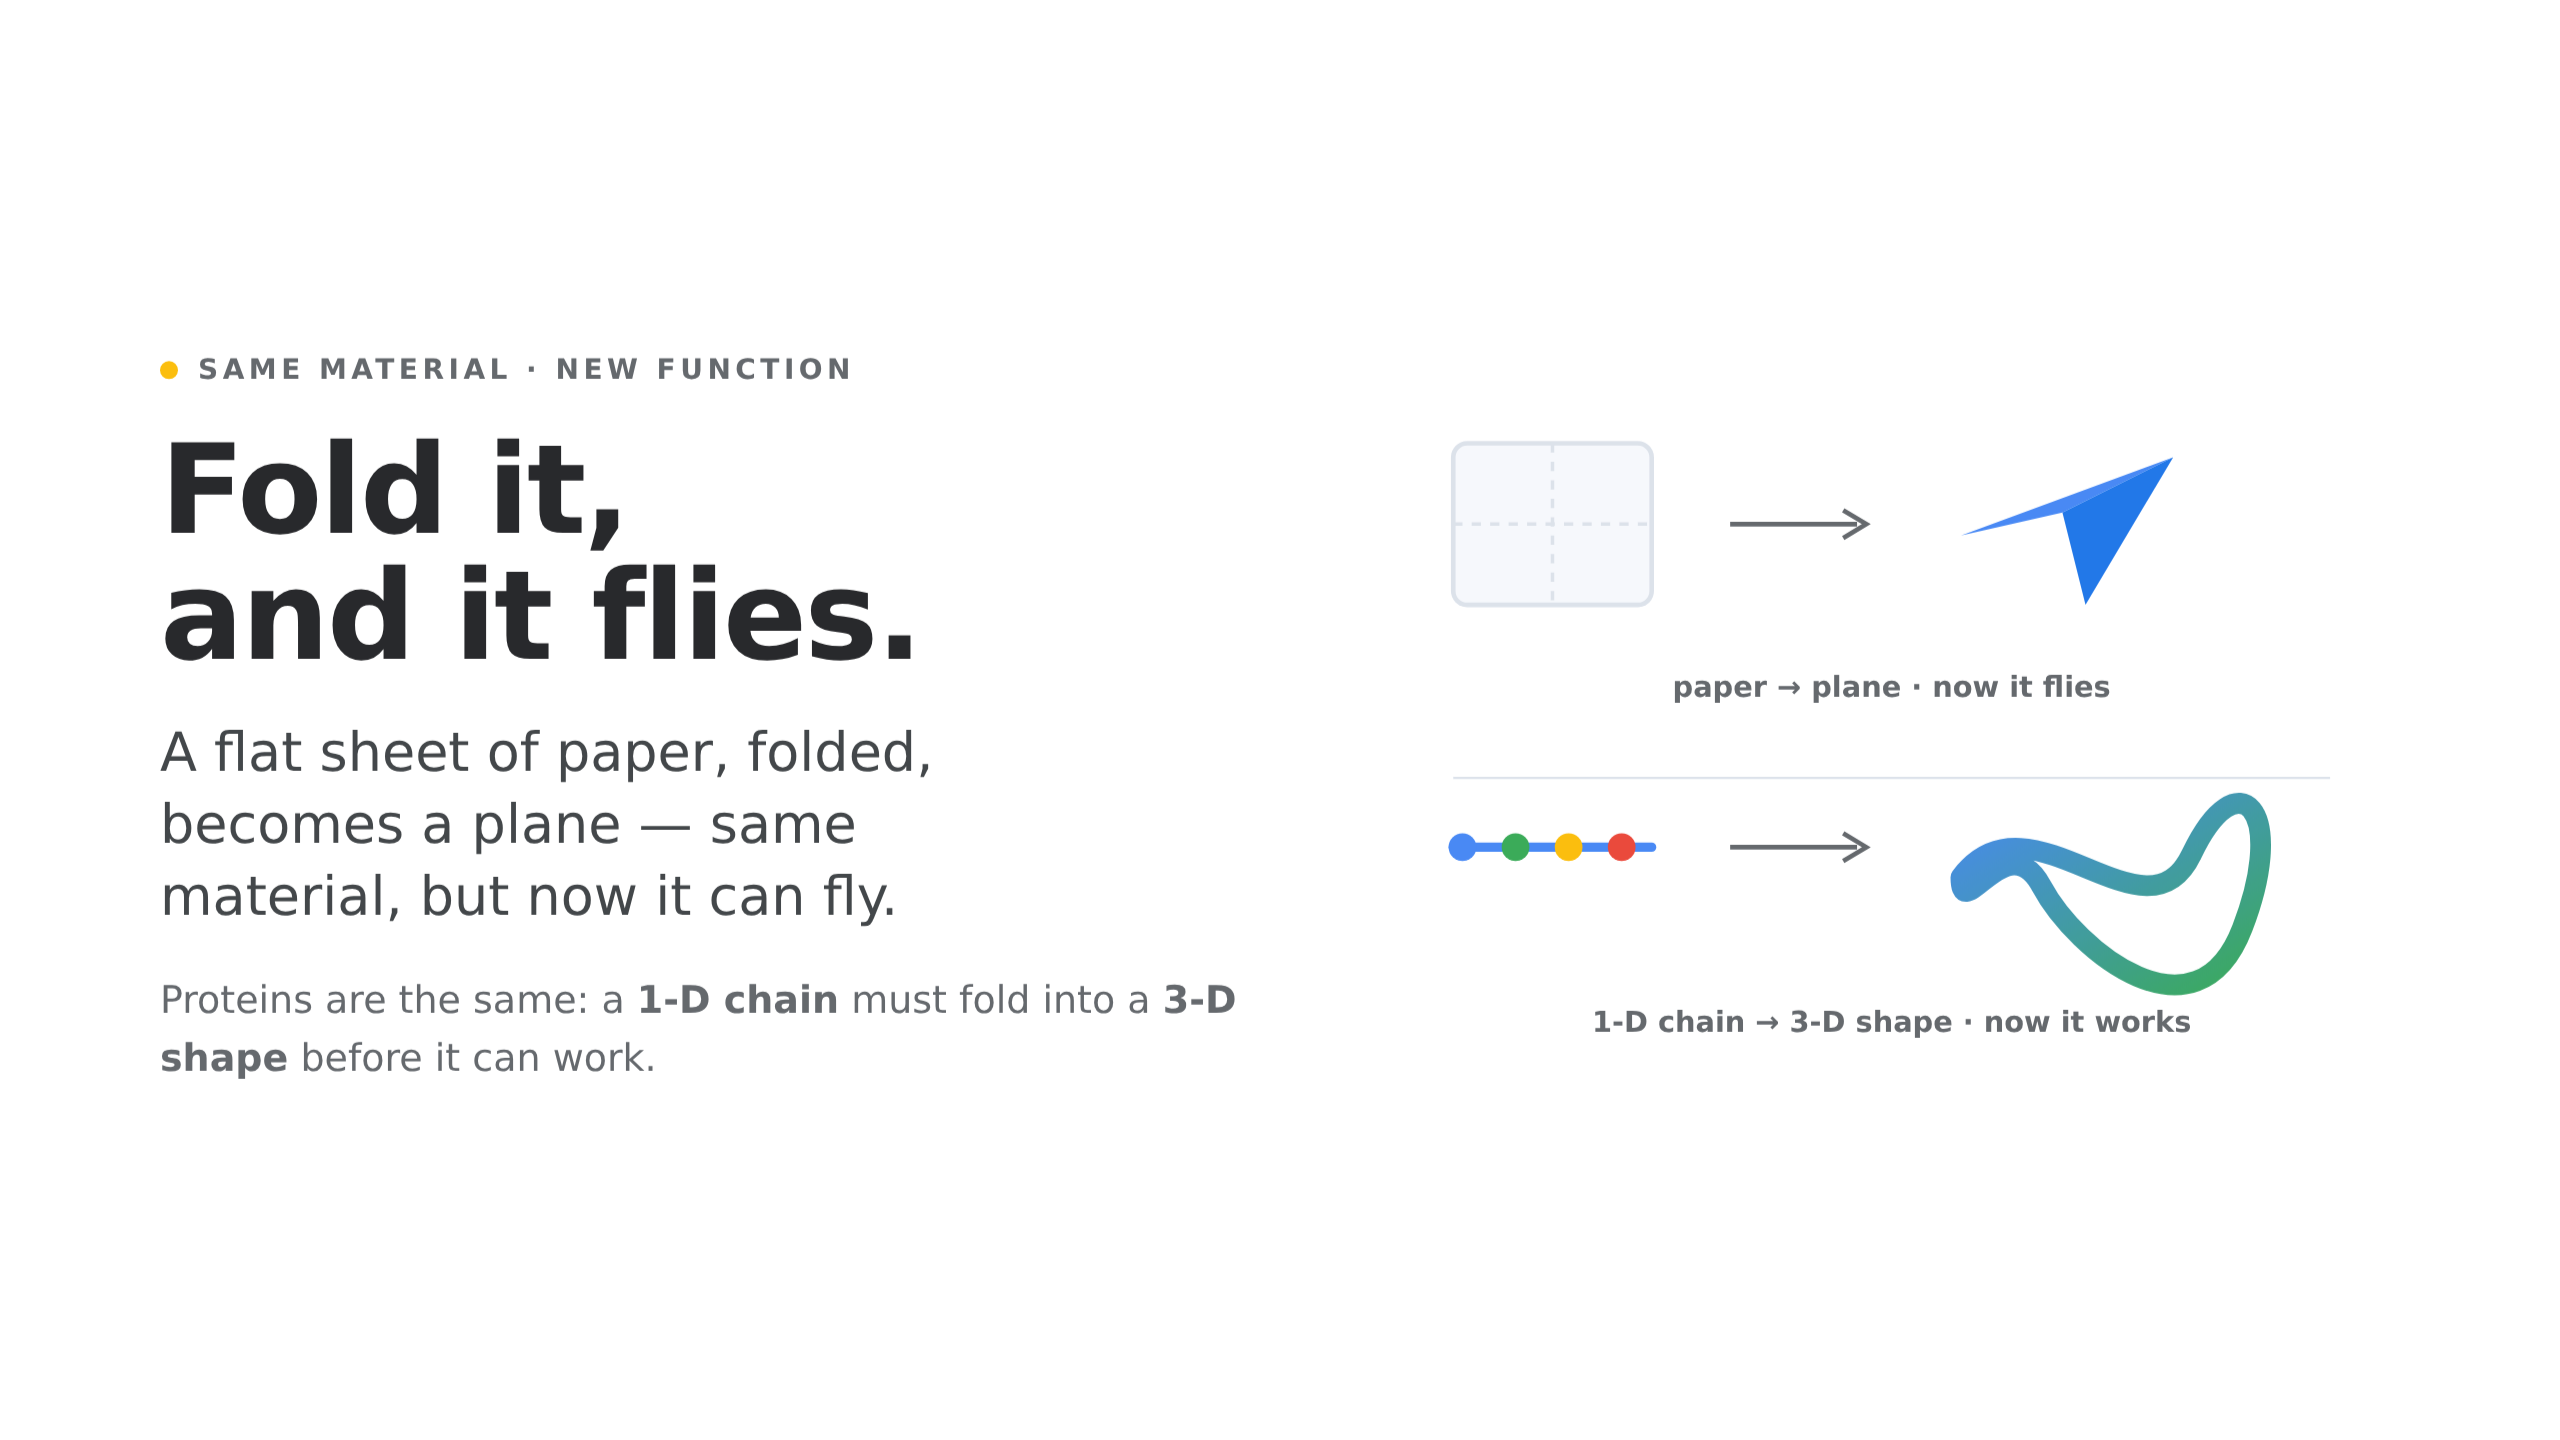
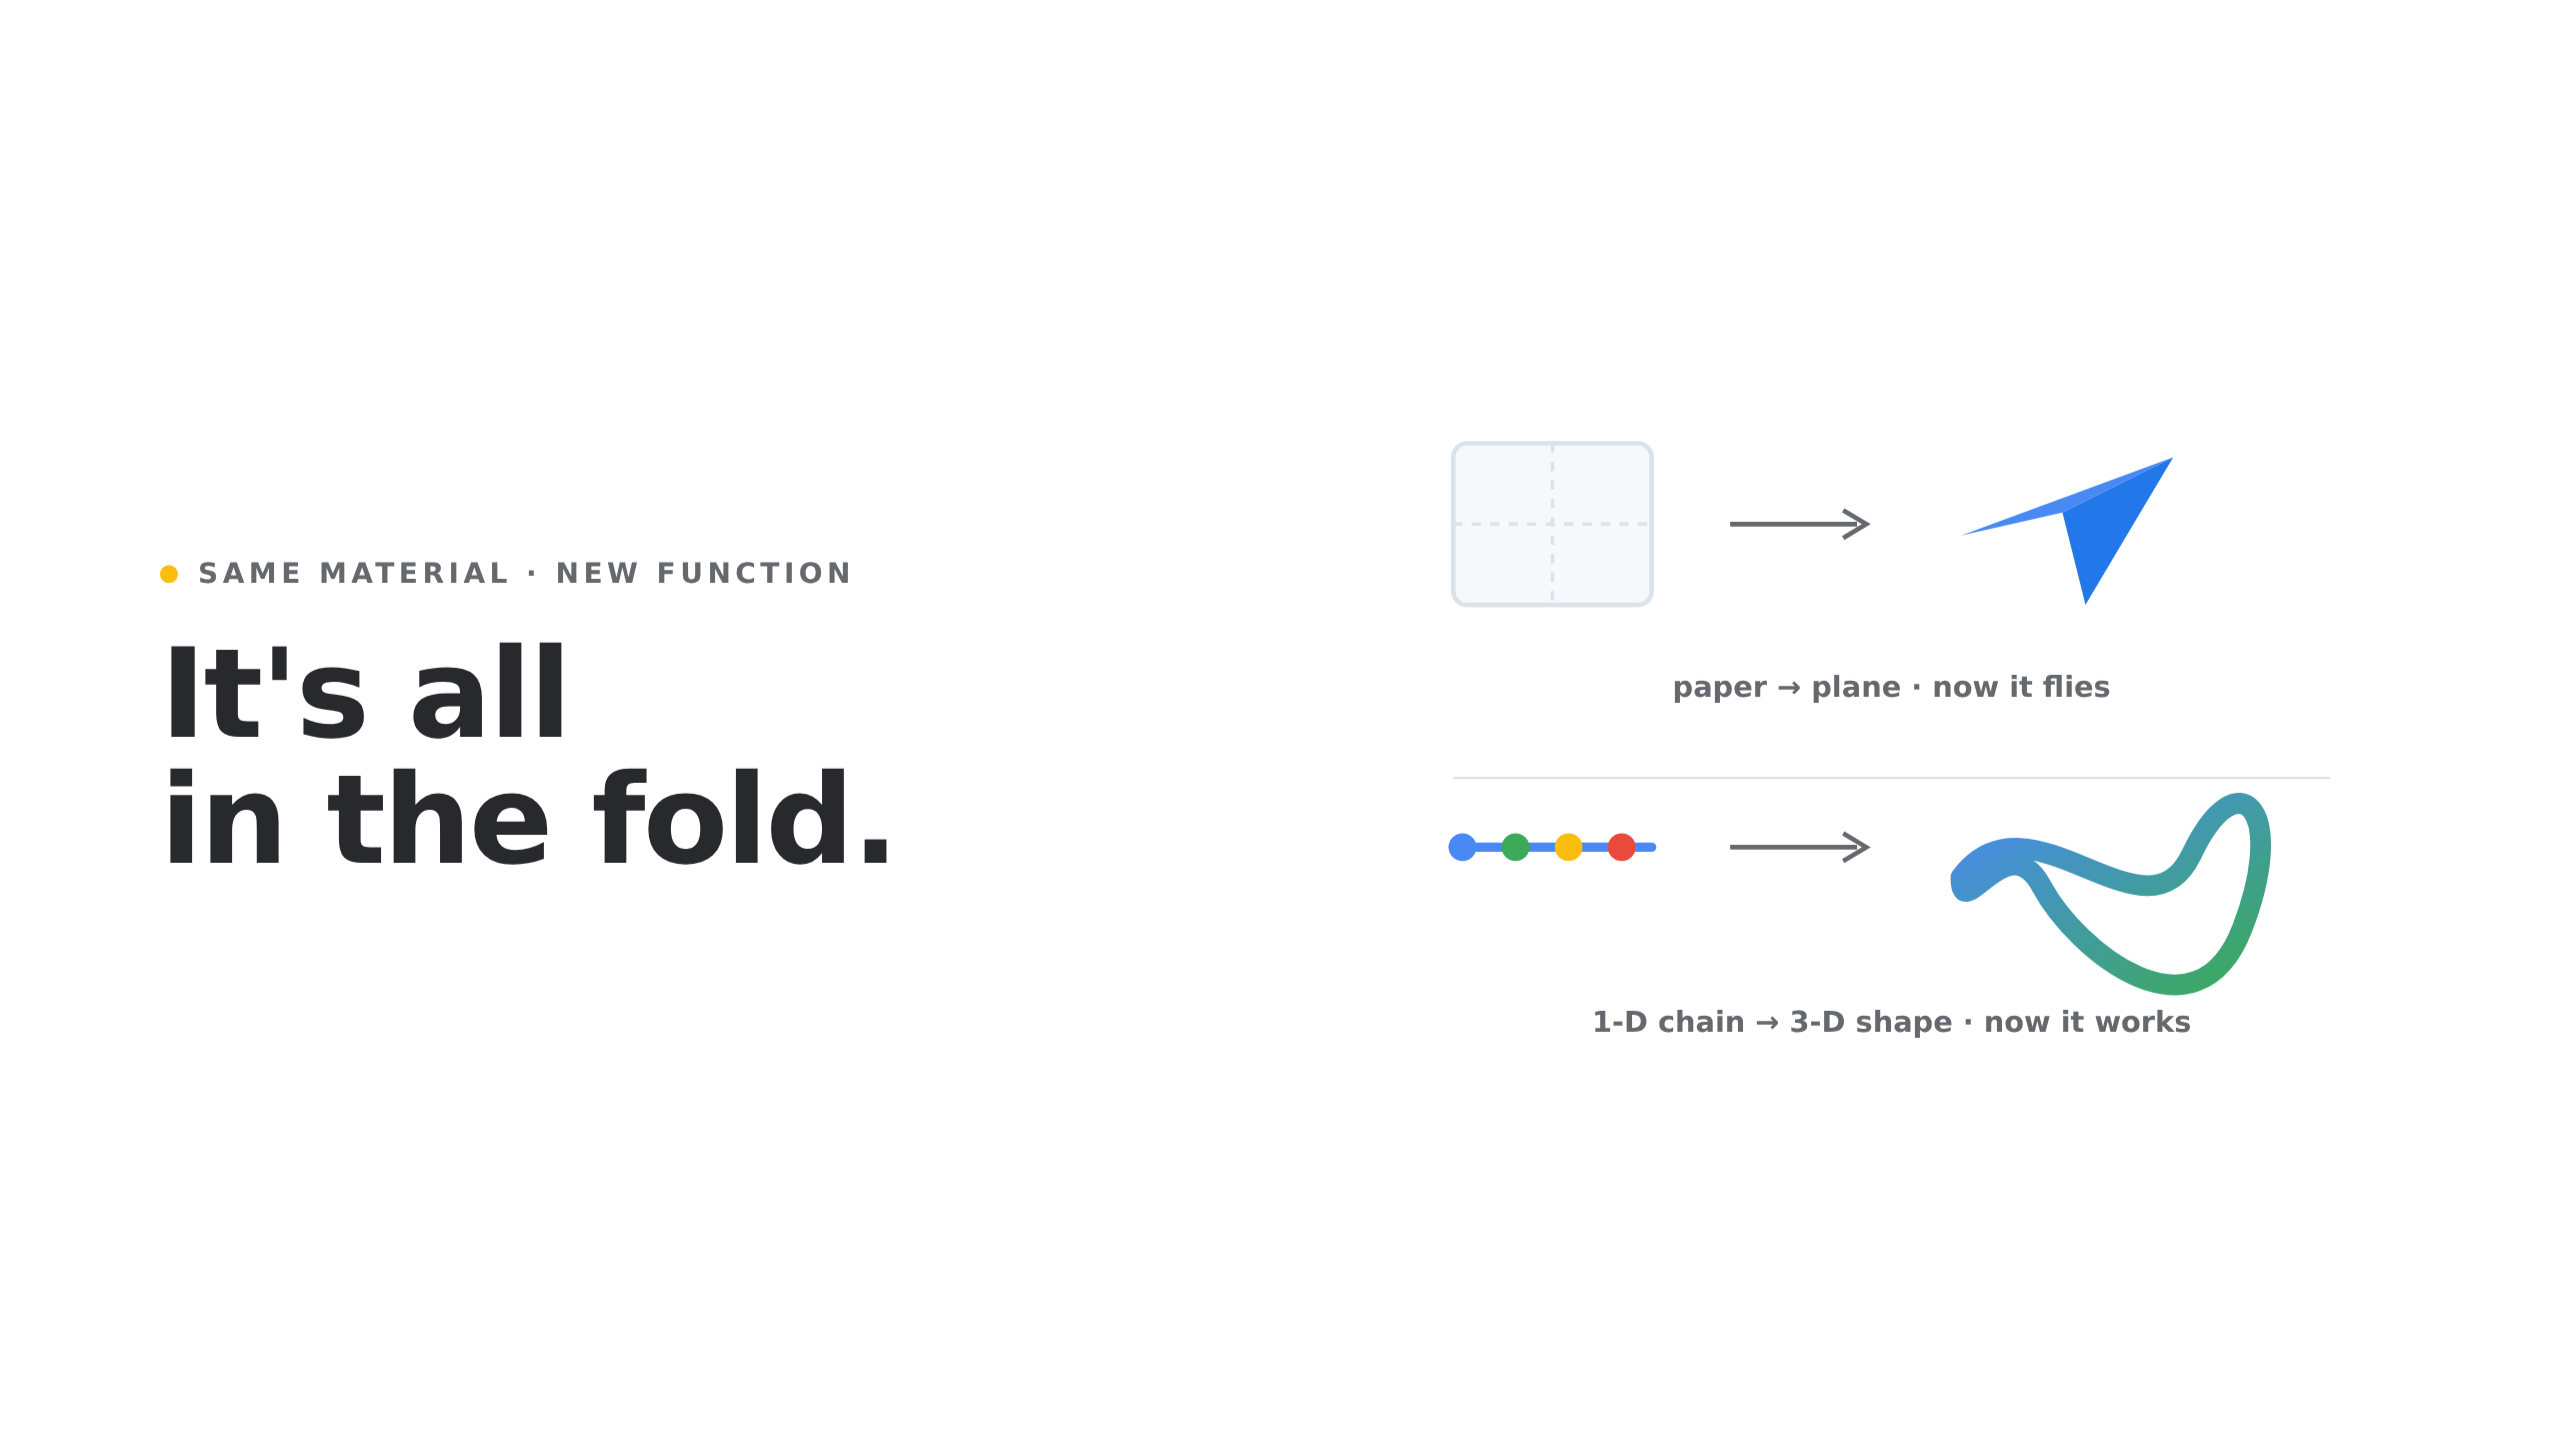
Strip deck to minimal keyword text per rubric
Replace full sentences with keywords across all slides; visuals and
spoken script carry the meaning. Regenerate export images.

Claude-Session: https://claude.ai/code/session_01Bs5QxwcQxX81M5Q77HARNf

Changed region(s): [[0.0625, 0.25, 0.375, 0.6562], [0.0625, 0.6875, 0.5, 0.75], [0.2188, 0.25, 0.3438, 0.2812]]

diff --git a/presentation/alphafold.html b/presentation/alphafold.html
@@ -231,7 +231,7 @@
       <div class="title-wrap">
         <div class="eyebrow rise"><span class="dot" style="background:var(--g-blue)"></span> Google DeepMind · Nature, 2021</div>
         <h1 class="wordmark rise"><span class="a1">A</span><span class="a2">l</span><span class="a3">p</span><span class="a4">h</span><span class="a5">a</span><span class="a6">F</span><span class="a7">o</span><span class="a8">l</span><span class="a9">d</span></h1>
-        <p class="lead rise">For <b>50 years</b>, one question went unanswered: can we predict a protein's <span class="accent-blue">3-D shape</span> from its <span class="accent-red">1-D sequence</span>?</p>
+        <p class="lead rise" style="font-weight:600; font-size:clamp(22px,3.4vw,40px);"><span class="accent-red">1-D sequence</span> &nbsp;→&nbsp; <span class="accent-blue">3-D shape</span>?</p>
         <div class="src rise">Jumper et&nbsp;al. “Highly accurate protein structure prediction with AlphaFold.” <i>Nature</i> 596, 583–589 (2021).</div>
       </div>
     </div>
@@ -243,9 +243,8 @@
       <div class="grid2">
         <div style="display:flex; flex-direction:column; gap: 20px;">
           <div class="eyebrow rise"><span class="dot" style="background:var(--g-blue)"></span> Why it matters</div>
-          <h2 class="rise">Proteins are the<br>machines of life.</h2>
-          <p class="lead rise">Everything they do depends on one thing — <b>their shape.</b></p>
-          <p class="sub rise">And when a protein folds <span class="accent-red">wrong</span>, you get diseases like Alzheimer's.</p>
+          <h2 class="rise">Shape<br>= function.</h2>
+          <p class="sub rise" style="font-size:clamp(17px,2vw,24px); font-weight:600;">misfold → <span class="accent-red">disease</span></p>
         </div>
         <div class="visual rise" aria-hidden="true">
           <svg viewBox="0 0 420 300">
@@ -280,9 +279,7 @@
       <div class="grid2">
         <div style="display:flex; flex-direction:column; gap: 20px;">
           <div class="eyebrow rise"><span class="dot" style="background:var(--g-yellow)"></span> Same material · new function</div>
-          <h2 class="rise">Fold it,<br>and it flies.</h2>
-          <p class="lead rise">A flat sheet of paper, folded, becomes a plane — same material, but now it can fly.</p>
-          <p class="sub rise">Proteins are the same: a <b>1-D chain</b> must fold into a <b>3-D shape</b> before it can work.</p>
+          <h2 class="rise">It's all<br>in the fold.</h2>
         </div>
         <div class="visual rise" aria-hidden="true">
           <svg viewBox="0 0 440 320">
@@ -337,15 +334,12 @@
   <section class="slide" data-notes="conflict">
     <div class="inner">
       <div class="eyebrow rise"><span class="dot" style="background:var(--g-red)"></span> The problem</div>
-      <h2 class="rise">So why can't we<br>just calculate it?</h2>
-      <div class="grid2 rise" style="margin-top:8px; align-items:center;">
+      <h2 class="rise">Too many ways<br>to fold.</h2>
+      <div class="rise" style="display:flex; align-items:center; gap: clamp(24px,5vw,60px); flex-wrap:wrap; margin-top:12px;">
+        <div class="megn accent-red" style="font-size: clamp(72px, 15vw, 172px);">10<span style="font-size:.42em; vertical-align:super; letter-spacing:0;">300</span></div>
         <div>
-          <div class="megn accent-red" style="font-size: clamp(64px, 13vw, 150px);">10<span style="font-size:.42em; vertical-align:super; letter-spacing:0;">300</span></div>
-          <div class="tag" style="margin-top:6px;">ways a single protein could fold</div>
-        </div>
-        <div class="card">
-          <p class="lead" style="margin:0;">That's more folding possibilities than there are <b>atoms in the observable universe.</b></p>
-          <p class="src" style="margin-top:12px;">Brute force would take years — for almost nothing.</p>
+          <div class="tag">possible folds</div>
+          <div class="lead" style="margin:6px 0 0; font-weight:600;">&gt; atoms in the universe</div>
         </div>
       </div>
     </div>
@@ -355,23 +349,22 @@
   <section class="slide" data-notes="solution">
     <div class="inner">
       <div class="eyebrow rise"><span class="dot" style="background:var(--g-green)"></span> The breakthrough · 2021</div>
-      <h2 class="rise">AlphaFold learns the<br>shape from <span class="accent-green">data.</span></h2>
-      <p class="lead rise" style="margin-top:2px;">Google DeepMind built an AI that skips the physics — and learns to fold in three steps.</p>
+      <h2 class="rise">Learns the shape<br>from <span class="accent-green">data.</span></h2>
       <div class="steps rise" style="margin-top:8px;">
         <div class="step">
           <div class="badge" style="background:var(--g-blue)">1</div>
-          <h3>Learns from evolution</h3>
-          <p>It reads folding patterns evolution already discovered across related proteins.</p>
+          <h3>Learn from evolution</h3>
+          <p>known patterns</p>
         </div>
         <div class="step">
           <div class="badge" style="background:var(--g-red)">2</div>
-          <h3>Reasons about the parts</h3>
-          <p>It works out how each part of the protein influences the others — inside a neural network called the <b>Evoformer.</b></p>
+          <h3>Reason about the parts</h3>
+          <p>the <b>Evoformer</b></p>
         </div>
         <div class="step">
           <div class="badge" style="background:var(--g-green)">3</div>
-          <h3>Builds the structure</h3>
-          <p>It assembles the final 3-D shape it predicts, atom by atom.</p>
+          <h3>Build the 3-D shape</h3>
+          <p>the prediction</p>
         </div>
       </div>
     </div>
@@ -386,7 +379,7 @@
           <h2 class="rise">And it <span class="accent-green">worked.</span></h2>
           <div class="rise">
             <div class="megn accent-green" style="font-size: clamp(56px, 10vw, 104px);">≈1&thinsp;Å</div>
-            <div class="tag" style="margin-top:8px;">prediction vs. real experiment —<br>the width of a single atom</div>
+            <div class="tag" style="margin-top:8px;">1 atom wide</div>
           </div>
         </div>
         <div class="visual rise" aria-hidden="true">
@@ -427,10 +420,10 @@
         </div>
       </div>
       <div class="chips rise" style="margin-top:22px; justify-content:center;">
-        <span class="chip"><span class="k" style="background:var(--g-red)"></span>Accelerating disease research</span>
-        <span class="chip"><span class="k" style="background:var(--g-blue)"></span>Speeding up drug discovery</span>
+        <span class="chip"><span class="k" style="background:var(--g-red)"></span>Disease research</span>
+        <span class="chip"><span class="k" style="background:var(--g-blue)"></span>Drug discovery</span>
       </div>
-      <p class="lead rise" style="margin-top:16px; text-align:center; max-width:none;">Proof that <b>AI can help solve science's biggest problems.</b></p>
+      <p class="lead rise" style="margin-top:18px; text-align:center; max-width:none; font-weight:700;">AI → science's hardest problems.</p>
     </div>
   </section>
 
